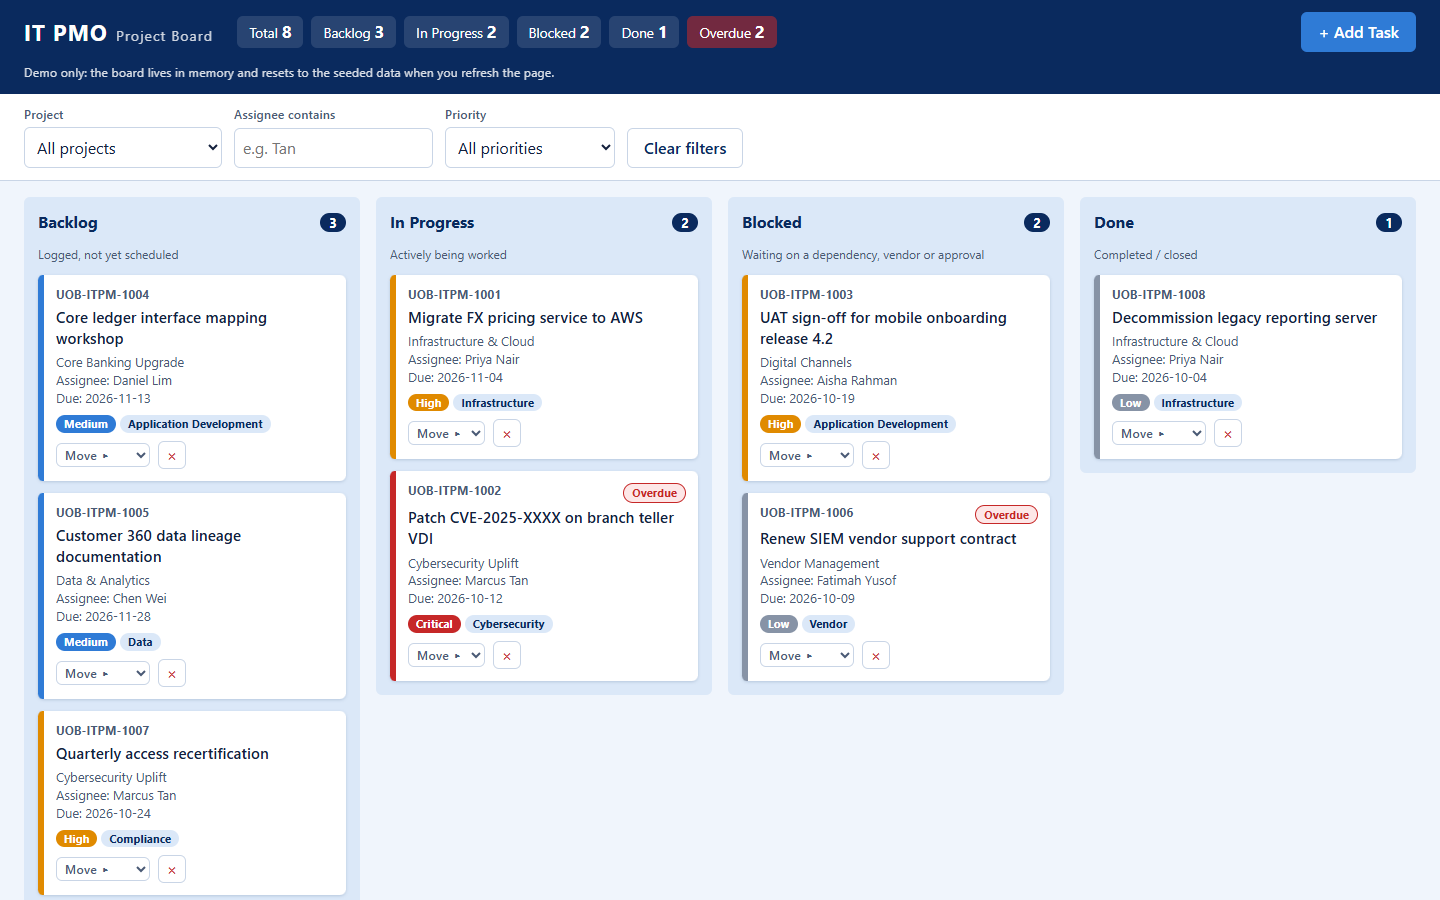
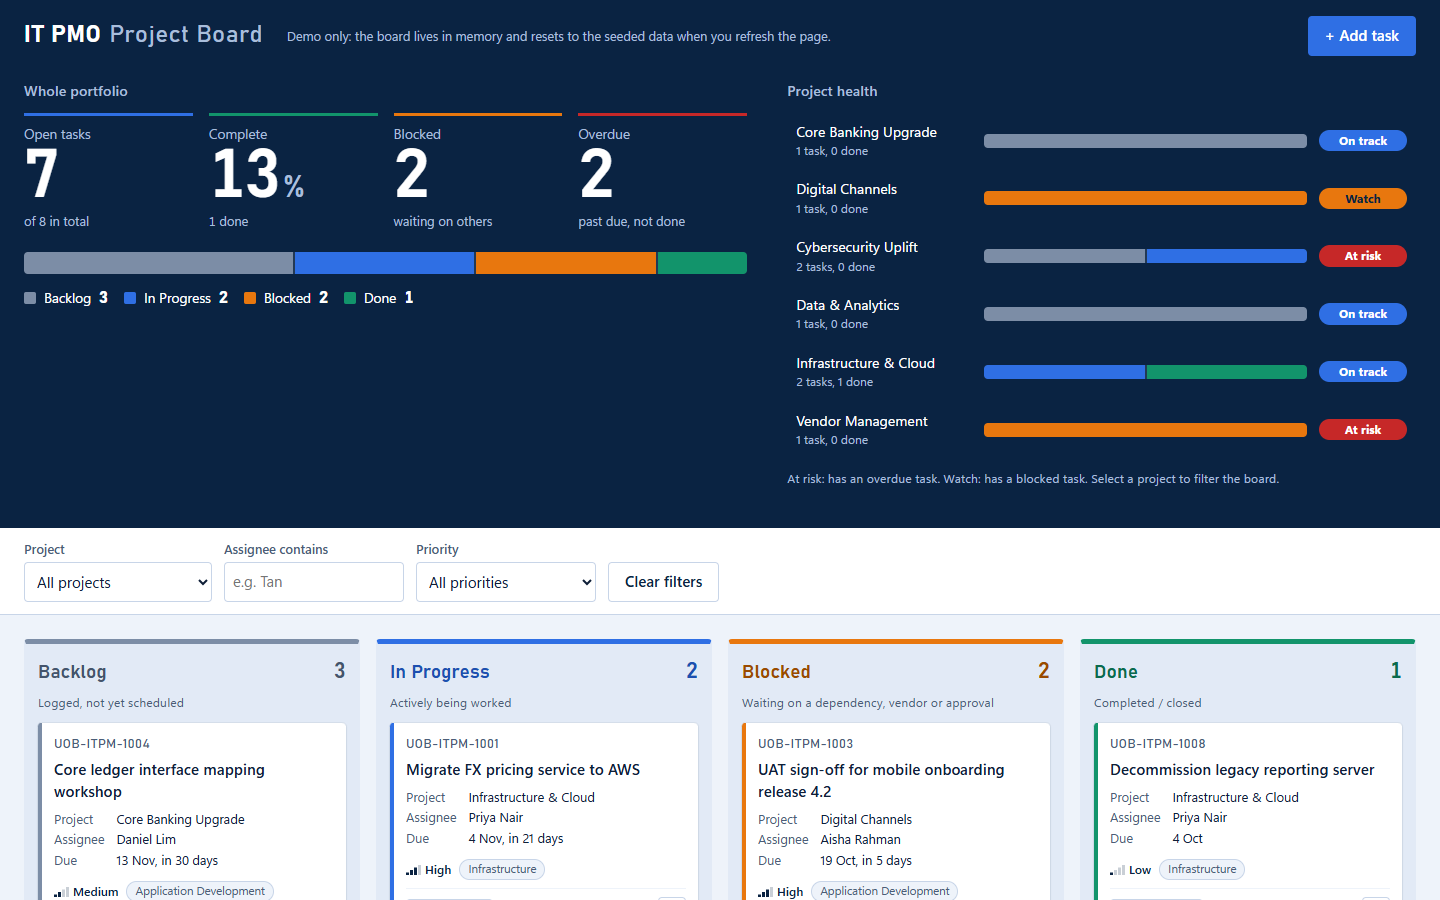
Add revamped board screenshot to README; CLI fallback for screenshot step
- docs/screenshot.png recaptured from local index.html (Playwright on Edge, 1440x900)
- README embeds it under the Live demo link
- publish-github Phase 3b falls back to the Playwright CLI on Edge when the
  MCP server is unavailable or still running with old args

diff --git a/.claude/commands/publish-github.md b/.claude/commands/publish-github.md
@@ -1,7 +1,7 @@
 ---
 description: Security-scan the project, then push to GitHub, update README + repo About, and deploy GitHub Pages via Actions
 argument-hint: <owner/repo or GitHub URL> [branch=main] [visibility=public|private] [description="..."] [topics=a,b,c]
-allowed-tools: Bash(git:*), Bash(gh:*), Bash(grep:*), Bash(ls:*), Bash(cat:*), Bash(gitleaks:*), Read, Write, Edit, Glob, Grep, mcp__playwright__browser_navigate, mcp__playwright__browser_resize, mcp__playwright__browser_wait_for, mcp__playwright__browser_snapshot, mcp__playwright__browser_take_screenshot, mcp__playwright__browser_close
+allowed-tools: Bash(git:*), Bash(gh:*), Bash(grep:*), Bash(ls:*), Bash(cat:*), Bash(gitleaks:*), Read, Write, Edit, Glob, Grep, mcp__playwright__browser_navigate, mcp__playwright__browser_resize, mcp__playwright__browser_wait_for, mcp__playwright__browser_snapshot, mcp__playwright__browser_take_screenshot, mcp__playwright__browser_close, Bash(npx -y playwright@latest screenshot:*)
 ---
 
 # Publish to GitHub
@@ -111,9 +111,12 @@ then Phase 5.
 Uses the project-level `playwright` MCP server from `.mcp.json` (Edge, `file://` access allowed).
 Capture the **local** `index.html` so the image matches exactly what is being pushed.
 
-1. If the `mcp__playwright__*` tools are not available, tell the user to restart Claude Code and approve
-   the `playwright` server, then skip this phase (keep any existing `docs/screenshot.png`). Don't block
-   the publish on it.
+1. If the `mcp__playwright__*` tools are not available or fail to start (e.g. still running with old
+   `.mcp.json` args until Claude Code restarts), fall back to the Playwright CLI on Edge, then continue
+   from step 5:
+   `npx -y playwright@latest screenshot --channel msedge --viewport-size=1440,900 --wait-for-timeout=1000 "file:///<project path>/index.html" docs/screenshot.png`
+   If that also fails, tell the user to restart Claude Code and approve the `playwright` server, then
+   skip this phase (keep any existing `docs/screenshot.png`). Don't block the publish on it.
 2. `browser_resize` to 1440 × 900, then `browser_navigate` to
    `file:///<absolute path of the project, forward slashes, spaces as %20>/index.html`.
 3. `browser_wait_for` ~1 second, then `browser_snapshot` and check the page is in its default state:

diff --git a/README.md b/README.md
@@ -4,6 +4,8 @@ A single-file Kanban board demo for an IT Project Management Office, built with 
 
 **Live demo:** https://aarondsprojects.github.io/kanban6/
 
+![IT PMO board with portfolio KPIs, project health bars and Backlog, In Progress, Blocked and Done columns](docs/screenshot.png)
+
 > Demo only: the bank is fictitious and the board lives in memory. It resets to the seeded data whenever you refresh the page.
 
 ## Features
